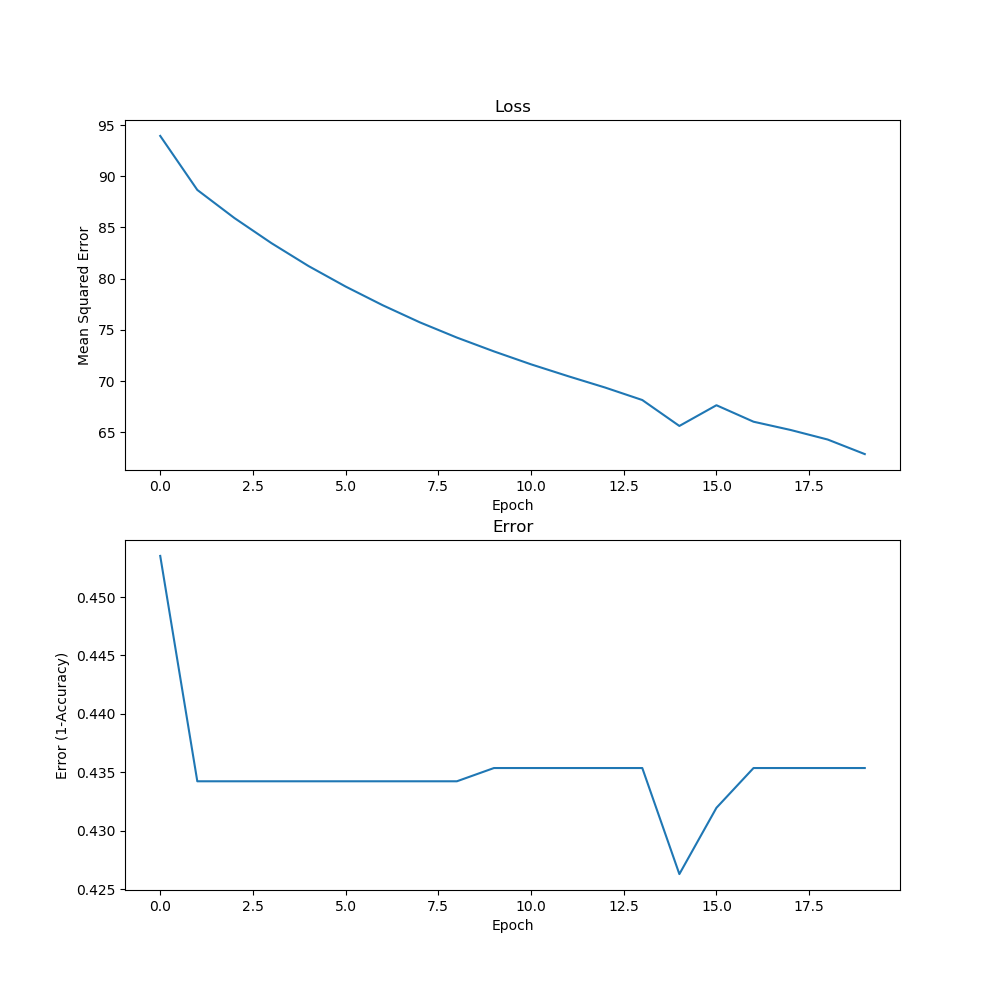
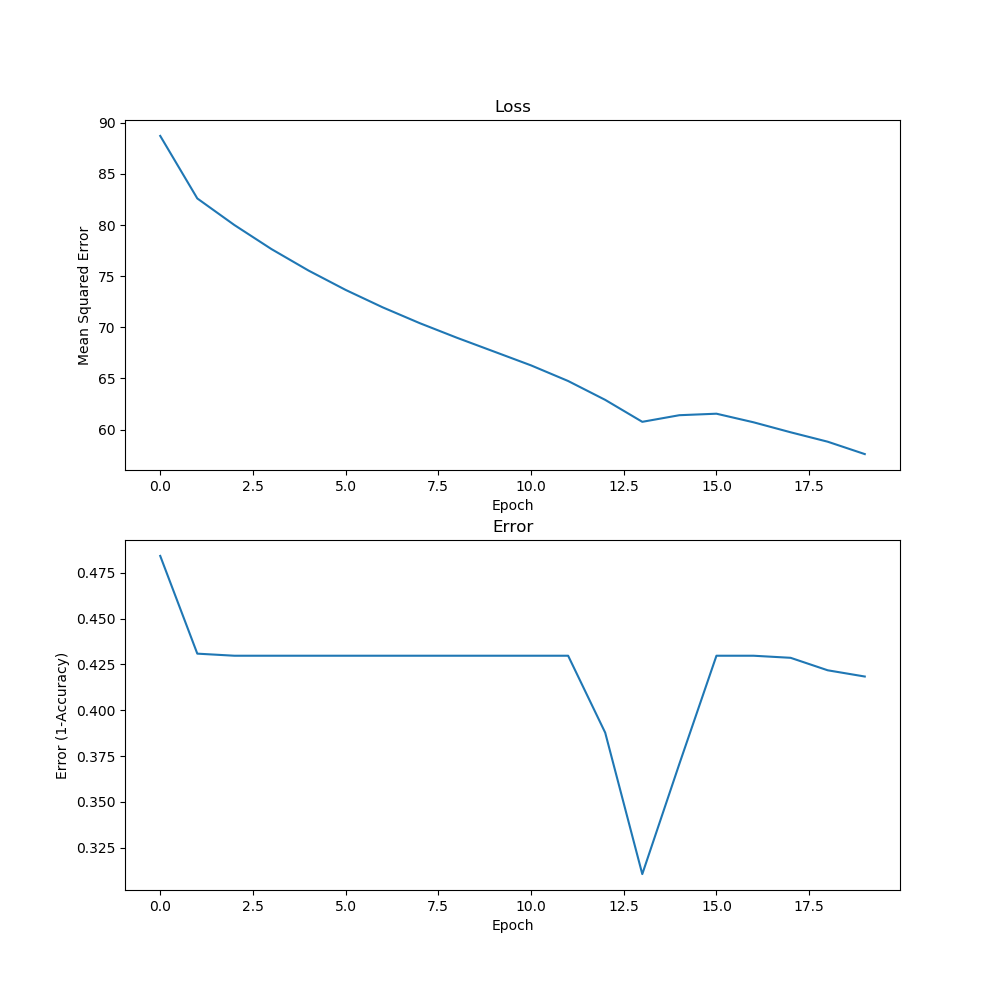
res of tsnn

diff --git a/parambuild.py b/parambuild.py
@@ -23,56 +23,64 @@ for timestep in Timestep:
 l_rectradius = [0.25, 0.5, 0.75, 1]
 
 
-for timestep in l_timestep:
-    params = {}
-    params["timestep"] = timestep
-    params["rectradius"] = 0.25
-    params["remove_outliers"] = 1
-    params["scale_data"] = 1
-    params["use_pca"] = 1
-    params["fileparam"] =  f"{timestep}-0.25-1-1-1.png"
-    l_params.append(params)
+# for timestep in l_timestep:
+#     params = {}
+#     params["timestep"] = timestep
+#     params["rectradius"] = 0.25
+#     params["remove_outliers"] = 1
+#     params["scale_data"] = 1
+#     params["use_pca"] = 1
+#     params["fileparam"] =  f"{timestep}-0.25-1-1-1.png"
+#     l_params.append(params)
+#
+# for rectradius in l_rectradius:
+#     params = {}
+#     params["timestep"] = "weekly"
+#     params["rectradius"] = rectradius
+#     params["remove_outliers"] = 1
+#     params["scale_data"] = 1
+#     params["use_pca"] = 1
+#     params["fileparam"] =  f"weekly-{rectradius}-1-1-1.png"
+#     l_params.append(params)
+#
+# for i in range(0,2):
+#     params = {}
+#     params["timestep"] = "weekly"
+#     params["rectradius"] = 0.25
+#     params["remove_outliers"] = i
+#     params["scale_data"] = 1
+#     params["use_pca"] = 1
+#     params["fileparam"] =  f"weekly-0.25-{i}-1-1.png"
+#     l_params.append(params)
+#
+# for i in range(0,2):
+#     params = {}
+#     params["timestep"] = "weekly"
+#     params["rectradius"] = 0.25
+#     params["remove_outliers"] = 1
+#     params["scale_data"] = i
+#     params["use_pca"] = 1
+#     params["fileparam"] =  f"weekly-0.25-1-{i}-1.png"
+#     l_params.append(params)
+#
+# for i in range(0,2):
+#     params = {}
+#     params["timestep"] = "weekly"
+#     params["rectradius"] = 0.25
+#     params["remove_outliers"] = 1
+#     params["scale_data"] = 1
+#     params["use_pca"] = i
+#     params["fileparam"] =  f"weekly-0.25-1-1-{i}.png"
+#     l_params.append(params)
 
-for rectradius in l_rectradius:
-    params = {}
-    params["timestep"] = "weekly"
-    params["rectradius"] = rectradius
-    params["remove_outliers"] = 1
-    params["scale_data"] = 1
-    params["use_pca"] = 1
-    params["fileparam"] =  f"weekly-{rectradius}-1-1-1.png"
-    l_params.append(params)
-
-for i in range(0,2):
-    params = {}
-    params["timestep"] = "weekly"
-    params["rectradius"] = 0.25
-    params["remove_outliers"] = i
-    params["scale_data"] = 1
-    params["use_pca"] = 1
-    params["fileparam"] =  f"weekly-0.25-{i}-1-1.png"
-    l_params.append(params)
-
-for i in range(0,2):
-    params = {}
-    params["timestep"] = "weekly"
-    params["rectradius"] = 0.25
-    params["remove_outliers"] = 1
-    params["scale_data"] = i
-    params["use_pca"] = 1
-    params["fileparam"] =  f"weekly-0.25-1-{i}-1.png"
-    l_params.append(params)
-
-for i in range(0,2):
-    params = {}
-    params["timestep"] = "weekly"
-    params["rectradius"] = 0.25
-    params["remove_outliers"] = 1
-    params["scale_data"] = 1
-    params["use_pca"] = i
-    params["fileparam"] =  f"weekly-0.25-1-1-{i}.png"
-    l_params.append(params)
-
+params = {}
+params["timestep"] = "weekly"
+params["rectradius"] = 0.25
+params["remove_outliers"] = 1
+params["scale_data"] = 1
+params["use_pca"] = 1
+params["fileparam"] =  f"weekly-0.25-1-1-1.png"
+l_params.append(params)
 
 
 

diff --git a/main.py b/main.py
@@ -96,7 +96,7 @@ def main():
     param_file = sys.argv[1]
     ann_param_file = sys.argv[2]
 
-    param_builder()
+    # param_builder()
 
     l_params = []
     with open(param_file, 'r') as fin:
@@ -121,7 +121,7 @@ def main():
     # if always just snwd, don't need
     l_ycols = ["SNWD.I-1 (in) "]
 
-    res_path = os.path.join(os.getcwd(), "results", "results1.json")
+    res_path = os.path.join(os.getcwd(), "results", "results2.json")
 
     part_res_path = os.path.join(os.getcwd(), "results", "part-results.json")
     for params in l_params:
@@ -159,27 +159,28 @@ def main():
         #     row["params"] = params
         #     results.append(row.copy())
 
-        row = {}
-        (mse, pred) = dataset.run_OLS("OLS" + params["fileparam"])
-        row["method"] = "OLS"
-        row["mse"] = mse
-        row["pred"] = pred
-        row["filename"] = "OLS" + params["fileparam"]
-        row["params"] = params
-        results.append(row.copy())
-        print(results)
+        # row = {}
+        # (mse, pred) = dataset.run_OLS("OLS" + params["fileparam"])
+        # row["method"] = "OLS"
+        # row["mse"] = mse
+        # row["pred"] = pred
+        # row["filename"] = "OLS" + params["fileparam"]
+        # row["params"] = params
+        # results.append(row.copy())
+        # print(results)
 
         # print(results)
-        # if params["timestep"] == "weekly":
-        #     row = {}
-        #     (mse, predlist) = dataset.run_TSNN("TSNN" + params["fileparam"])
-        #     row["method"] = "TSNN"
-        #     row["mse"] = mse
-        #     row["pred"] = predlist
-        #     row["filename"] = "TSNN" + params["fileparam"]
-        #     row["params"] = params
-        #     results.append(row.copy())
-        #     print(results)
+        for ann_params in l_ann_params:
+            row = {}
+            moreinfo = f"{ann_params['optimizer']}-{ann_params['hiddenlayer']}-{ann_params['numneuron']}-{ann_params['loss']}-{ann_params['activation']}-"
+            (mse, predlist) = dataset.run_TSNN("TSNN" + moreinfo + params["fileparam"], ann_params)
+            row["method"] = "TSNN"
+            row["mse"] = mse
+            row["pred"] = predlist
+            row["filename"] = "TSNN" + params["fileparam"]
+            row["params"] = params
+            results.append(row.copy())
+            print(results)
 
         # with open(part_res_path, 'w') as f:
         #     json.dump(results, f)

diff --git a/TSNN.py b/TSNN.py
@@ -97,7 +97,7 @@ def get_model(train_x, train_y, nodes_per_layer=5, hidden_layers=1, activation_f
     axs[1].plot(x_vals, history[1])
     axs[1].set_title('Error')
     axs[1].set(ylabel="Error (1-Accuracy)",xlabel="Epoch")
-    fig.savefig('tsnn-result-graph.png')
+    fig.savefig(graph_path)
 
     error = []
 
@@ -107,20 +107,20 @@ def get_model(train_x, train_y, nodes_per_layer=5, hidden_layers=1, activation_f
     return (model, error)
 
 def get_future_models(sequential_data, nodes_per_layer=5, hidden_layers=1, activation_func="relu", output_activation=None,
-                      loss_func="mean_squared_error", opt="SGD", num_epochs=1, back_steps=1, future_steps=1):
+                      loss_func="mean_squared_error", opt="SGD", num_epochs=1, back_steps=1, future_steps=1, graph_path="oops.png"):
     trainVec = transform_3D(sequential_data, back_steps, future_steps)
     train_x = trainVec[0]
     train_y = trainVec[1]
 
     if future_steps == 1:
-        return get_model(train_x, train_y, nodes_per_layer, hidden_layers, activation_func, output_activation, loss_func, opt, num_epochs)
+        return get_model(train_x, train_y, nodes_per_layer, hidden_layers, activation_func, output_activation, loss_func, opt, num_epochs, graph_path)
 
     models = []
     model = None
 
     for i in range(future_steps):
         print(train_x.shape)
-        model = get_model(train_x, np.array(train_y[i]), nodes_per_layer, hidden_layers, activation_func, output_activation, loss_func, opt, num_epochs)
+        model = get_model(train_x, np.array(train_y[i]), nodes_per_layer, hidden_layers, activation_func, output_activation, loss_func, opt, num_epochs, graph_path)
         models.append(model)
         new_x_data = []
         for j in range(train_x.shape[0]):

diff --git a/dataset.py b/dataset.py
@@ -72,7 +72,7 @@ class DataSet():
         self.set_split(0.3)
         return run_OLS_predictor(self.get_data_with_date(), self.get_Xtrain(), self.get_Ytrain(), self.get_Xtest(), self.get_Ytest(), self.pred_input, filename)
 
-    def run_TSNN(self, filename):
+    def run_TSNN(self, filename, params):
         # will change name when I figure out what it's called
         self._averaged_sites()
         weeks_past = 4
@@ -81,8 +81,11 @@ class DataSet():
         # print(fullcols)
         x = np.array(self.df.loc[:,fullcols].tail(weeks_past))
         input_data = np.expand_dims(x, axis=0)
+        fpath = os.path.join(os.getcwd(), "results", filename)
         # print(np.array([self.df.loc[:,fullcols].tail(weeks_past)]))
-        models = get_future_models(self.df.loc[:,fullcols], num_epochs=20, back_steps=weeks_past, future_steps=4)
+        models = get_future_models(self.df.loc[:,fullcols], nodes_per_layer=params["numneuron"],
+                hidden_layers=params["hiddenlayer"], activation_func=params["activation"],
+                loss_func =params["loss"], opt=params["optimizer"],num_epochs=20, back_steps=weeks_past, future_steps=4, graph_path=fpath)
         error = models[1]
         # input_data = np.array([self.df.loc[:,fullcols].tail(weeks_past)])
         # # input_data = np.array([[list(range(0,len(self.pred_input))), self.pred_input]])
